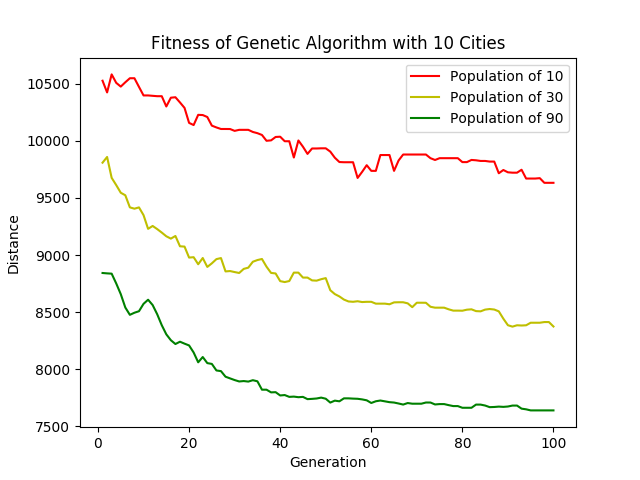
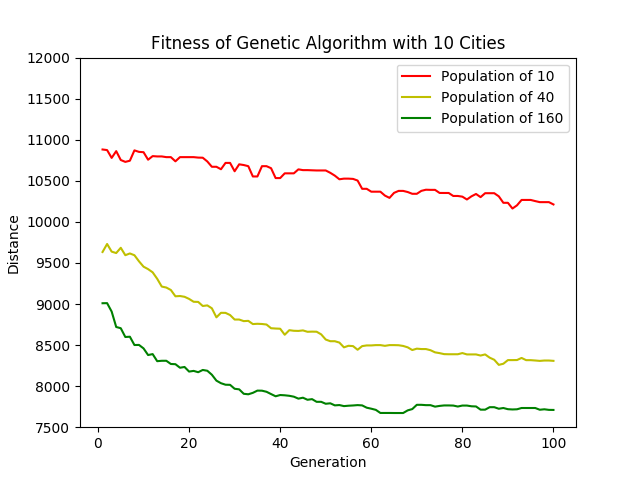
updated plots
plots needed legend position fixed due to it overlapping with curves

diff --git a/assignments/assignment1/src/plot.py b/assignments/assignment1/src/plot.py
@@ -22,15 +22,16 @@ plt.plot(x, av_ga, 'r', label = 'Population of 10')
 
 var_hold, nr_bt = GA(cities, distance, cs, cl, 40, 100, 0.2, 20, 10, 10)
 av_ga = nmp.mean(var_hold, axis=0)
-plt.plot(x, av_ga, 'y', label = 'Population of 30')
+plt.plot(x, av_ga, 'y', label = 'Population of 40')
 
 var_hold, nr_bt = GA(cities, distance, cs, cl, 160, 100, 0.2, 20, 10, 10)
 av_ga = nmp.mean(var_hold, axis=0)
-plt.plot(x, av_ga, 'g', label = 'Population of 90')
+plt.plot(x, av_ga, 'g', label = 'Population of 160')
 
 plt.xlabel('Generation')
 plt.legend(loc='upper right')
 plt.ylabel('Distance')
+plt.ylim(7500, 12000)
 plt.title('Fitness of Genetic Algorithm with 10 Cities')
 filename = os.path.join(save_path,"10_cities.png")
 plt.savefig(filename)   # save figure to .png in ../results/plots
@@ -49,15 +50,16 @@ plt.plot(x, av_ga, 'r', label = 'Population of 10')
 
 var_hold, nr_bt = GA(cities, distance, cs, cl, 40, 100, 0.2, 20, 10, 24)
 av_ga = nmp.mean(var_hold, axis=0)
-plt.plot(x, av_ga, 'y', label = 'Population of 30')
+plt.plot(x, av_ga, 'y', label = 'Population of 40')
 
 var_hold, nr_bt = GA(cities, distance, cs, cl, 160, 100, 0.2, 20, 10, 24)
 av_ga = nmp.mean(var_hold, axis=0)
-plt.plot(x, av_ga, 'g', label = 'Population of 90')
+plt.plot(x, av_ga, 'g', label = 'Population of 160')
 
 plt.xlabel('Generation')
 plt.legend(loc='upper right')
 plt.ylabel('Distance')
+plt.ylim(17000, 30000)
 plt.title('Fitness of Genetic Algorithm with 24 Cities')
 filename = os.path.join(save_path,"24_cities.png")
 plt.savefig(filename)   # save figure to .png in ../results/plots
